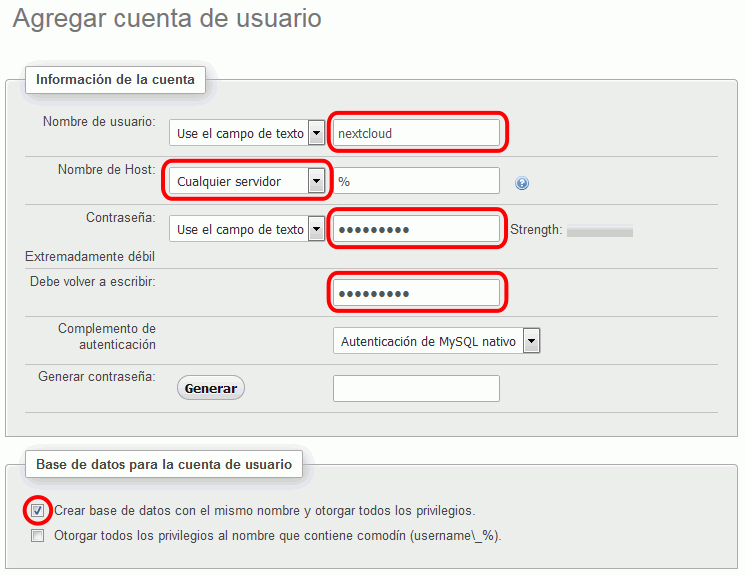
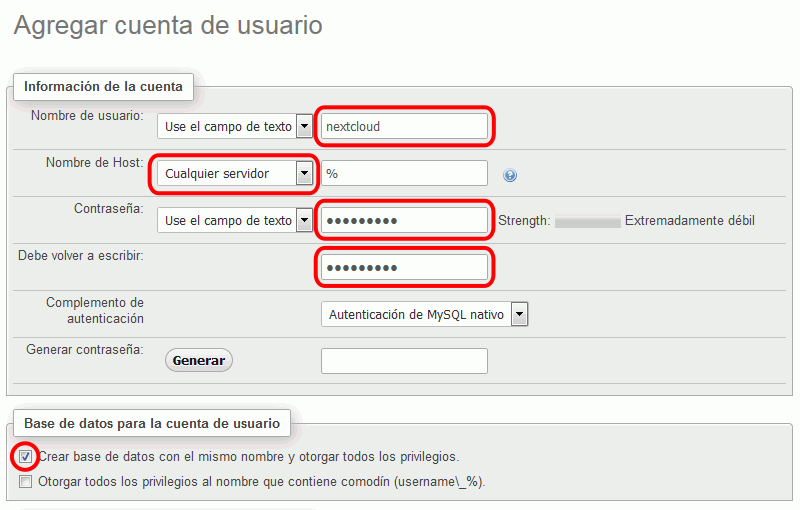
Actualizo ejericcios y soluciones Nextcloud (1) 1 a 3

Changed region(s): [[0.0, 0.0, 1.0, 1.0], [0.0, 0.5588, 0.0309, 0.5882], [0.0, 0.3824, 0.0309, 0.4118]]

diff --git a/lecciones/nextcloud-1-soluciones.html b/lecciones/nextcloud-1-soluciones.html
@@ -66,13 +66,20 @@
       <li>Obtenga la dirección IP de la máquina virtual:
         <div class="terminal">
           <pre class="command-line" data-prompt="$" data-output="2">
-<code class="language-shell">ifconfig | grep 192.168
-    inet <span class="codigo-resaltado">192.168.1.5</span> netmask 255.255.255.0 broadcast 192.168.1.255</code></pre>
+<code class="language-shell">ip addr | grep 192.168
+    inet <span class="codigo-resaltado">192.168.1.5</span>/24 brd 192.168.1.255 scope global dynamic enp0s3</code></pre>
         </div>
-        </li>
-        <li>Abra la página inicial de Nextcloud rellene los datos
-          </li>
-
+      </li>
+      <li>Abra la página inicial de Nextcloud y rellene los datos:
+        <p class="captura">
+          <img src="../img/nextcloud/1-1-s-1-instalacion.png" alt="Nexcloud. Instalación" width="991" height="570" />
+        </p>
+      </li>
+      <li>Para cerrar la sesión de Nextcloud, haga clic en el icono de la rueda dentada y elija la opción Cerrar sesión:
+        <p class="captura">
+          <img src="../img/nextcloud/1-1-s-2-instalacion.png" alt="Nexcloud. Instalación" width="991" height="315" />
+        </p>
+      </li>
     </ol>
   </section>
 
@@ -84,27 +91,27 @@
         <ul>
           <li>Cree una red:
             <div class="terminal">
-              <pre><code class="language-shell">sudo docker network create nc-network</code></pre>
+              <pre class="command-line" data-prompt="$"><code class="language-shell">sudo docker network create nc-network</code></pre>
             </div>
           </li>
           <li>Cree el contenedor de MariaDB:
             <div class="terminal">
-              <pre><code class="language-shell">sudo docker run -d --name=nc-mariadb -e ALLOW_EMPTY_PASSWORD=yes --net=nc-network bitnami/mariadb</code></pre>
+              <pre class="command-line" data-prompt="$"><code class="language-shell">sudo docker run -d --name=nc-mariadb -e ALLOW_EMPTY_PASSWORD=yes --net=nc-network bitnami/mariadb</code></pre>
             </div>
           </li>
           <li>Cree el contenedor de phpMyAdmin:
             <div class="terminal">
-              <pre><code class="language-shell">sudo docker run -d --name=nc-pma -e DATABASE_HOST=nc-mariadb -p 8801:80 --net=nc-network bitnami/phpmyadmin</code></pre>
+              <pre class="command-line" data-prompt="$"><code class="language-shell">sudo docker run -d --name=nc-pma -e DATABASE_HOST=nc-mariadb -p 8801:80 --net=nc-network bitnami/phpmyadmin</code></pre>
             </div>
           </li>
           <li>Abra en el navegador del host la página http://AAA.BBB.CCC.DDD:8801 (usuario root sin contraseña) y con phpMyAdmin cree un usuario nextcloud, que pueda acceder desde cualquier servidor, con contraseña nextcloud y base de datos única.
             <p class="captura">
-              <img src="../img/nextcloud/1-2-s-1-instalacion.png" alt="phpMyAdmin. Creción de usuario nextcloud" width="745" height="575" />
+              <img src="../img/nextcloud/1-2-s-1-instalacion.png" alt="phpMyAdmin. Creación de usuario nextcloud" width="800" height="510" />
             </p>
           </li>
           <li>Cree el contenedor de Nextcloud:
             <div class="terminal">
-              <pre><code class="language-shell">sudo docker run -d --name=nextcloud -p 80:80 -p 443:443 --net=nc-network nextcloud</code></pre>
+              <pre class="command-line" data-prompt="$"><code class="language-shell">sudo docker run -d --name=nextcloud -p 80:80 -p 443:443 --net=nc-network nextcloud</code></pre>
             </div>
           </li>
         </ul>
@@ -120,18 +127,34 @@
     <ul>
       <li>Consulte la dirección IP privada del servidor de bases de datos:
         <div class="terminal">
-          <pre><code class="language-shell">sudo docker network inspect nc-network</code></pre>
+          <pre class="command-line" data-prompt="$"><code class="language-shell">sudo docker network inspect nc-network</code></pre>
         </div>
-        <p>La dirección debe ser del tipo <span class="codigo-modificacion">172.XXX.YYY.ZZZ</span></p>
+        <p>Docker muestra la información de todos los contenedores pertenecientes a la red en formato JSON. La dirección debe ser del tipo <span class="codigo-modificacion">172.XXX.YYY.ZZZ</span></p>
+
+        <div class="terminal">
+          <pre>
+<code class="language-shell">...
+        "Containers": {
+            ...
[1 lines of base64/hex data omitted]
+                "Name": "nc-mariadb",
[1 lines of base64/hex data omitted]
+                "MacAddress": "02:42:ac:13:00:03",
+                "IPv4Address": "<span class="codigo-resaltado">172.19.0.3</span>/16",
+                "IPvAddress": ""
+            ...
+            },
+...</code></pre>
+        </div>
       </li>
       <li>Configure el acceso de Nextcloud a la base de datos:
         <p class="captura">
-          <img src="../img/nextcloud/1-3-s-1-completar.png" alt="Nextcloud. Conexión con MariaDB" width="400" height="630" />
+          <img src="../img/nextcloud/1-3-s-1-completar.png" alt="Nextcloud. Conexión con MariaDB" width="991" height="630" />
         </p>
       </li>
       <li>Para salir de Nextcloud, haga clic en la rueda dentada (arriba a la derecha) y seleccione la opción Desconectar:
         <p class="captura">
-          <img src="../img/nextcloud/1-3-s-2-salir.png" alt="Nextcloud. Salir" width="1008" height="260" />
+          <img src="../img/nextcloud/1-3-s-2-salir.png" alt="Nextcloud. Salir" width="1009" height="310" />
         </p>
       </li>
     </ul>
@@ -348,7 +371,7 @@ dns-nameservers 8.8.8.8</code></pre>
   </section>
 
   <footer>
-    <p class="ultmod">Última modificación de esta página: 6 de febrero de 2019</p>
+    <p class="ultmod">Última modificación de esta página: 10 de febrero de 2019</p>
 
     <p class="licencia">
       <a rel="license" href="https://creativecommons.org/licenses/by-sa/4.0/deed.es_ES"><img src="../varios/iconos/icono-cc-by-sa.svg" alt="Licencia Creative Commons" title="Licencia Creative Commons BY-SA" width="120" height="42" /></a><br />

diff --git a/lecciones/nextcloud-1.html b/lecciones/nextcloud-1.html
@@ -125,7 +125,7 @@
     <ol>
       <li>Consulte cuál es la dirección IP privada 172.BBB.CCC.DDD del contenedor de MariaDB.
         <div class="terminal">
-          <pre><code class="language-shell">sudo docker network inspect RED</code></pre>
+          <pre class="command-line" data-prompt="$"><code class="language-shell">sudo docker network inspect RED</code></pre>
         </div>
       </li>
       <li>Complete la instalación de NextCloud:
@@ -250,7 +250,7 @@
   </section>
 
   <footer>
-    <p class="ultmod">Última modificación de esta página: 6 de febrero de 2019</p>
+    <p class="ultmod">Última modificación de esta página: 10 de febrero de 2019</p>
 
     <p class="licencia">
       <a rel="license" href="https://creativecommons.org/licenses/by-sa/4.0/deed.es_ES"><img src="../varios/iconos/icono-cc-by-sa.svg" alt="Licencia Creative Commons" title="Licencia Creative Commons BY-SA" width="120" height="42" /></a><br />

diff --git a/lecciones/bitnami-varios.html b/lecciones/bitnami-varios.html
@@ -136,16 +136,16 @@
     <section id="averiguar-ip">
       <h3>Averiguar la IP de la máquina</h3>
 
-      <p>Para averiguar la IP de la máquina, escribir el comando:</p>
+      <p>Para averiguar la IP de la máquina, escriba el comando:</p>
 
       <div class="codigo">
-        <pre><code class="language-shell">ifconfig</code></pre>
+        <pre><code class="language-shell">ifconfig | grep 192.168</code></pre>
       </div>
 
       <p>También se puede escribir un comando más moderno:</p>
 
       <div class="codigo">
-        <pre><code class="language-shell">ip addr</code></pre>
+        <pre><code class="language-shell">ip addr | grep 192.168</code></pre>
       </div>
     </section>
 

diff --git a/index.html b/index.html
@@ -222,7 +222,7 @@
   </div>
 
   <footer>
-    <p class="ultmod">Última modificación de alguna página de este curso: 7 de febrero de 2019</p>
+    <p class="ultmod">Última modificación de alguna página de este curso: 10 de febrero de 2019</p>
 
     <p class="licencia">
       <a rel="license" href="https://creativecommons.org/licenses/by-sa/4.0/deed.es_ES"><img src="varios/iconos/icono-cc-by-sa.svg" alt="Licencia Creative Commons" title="Licencia Creative Commons BY-SA" width="120" height="42" /></a><br />
